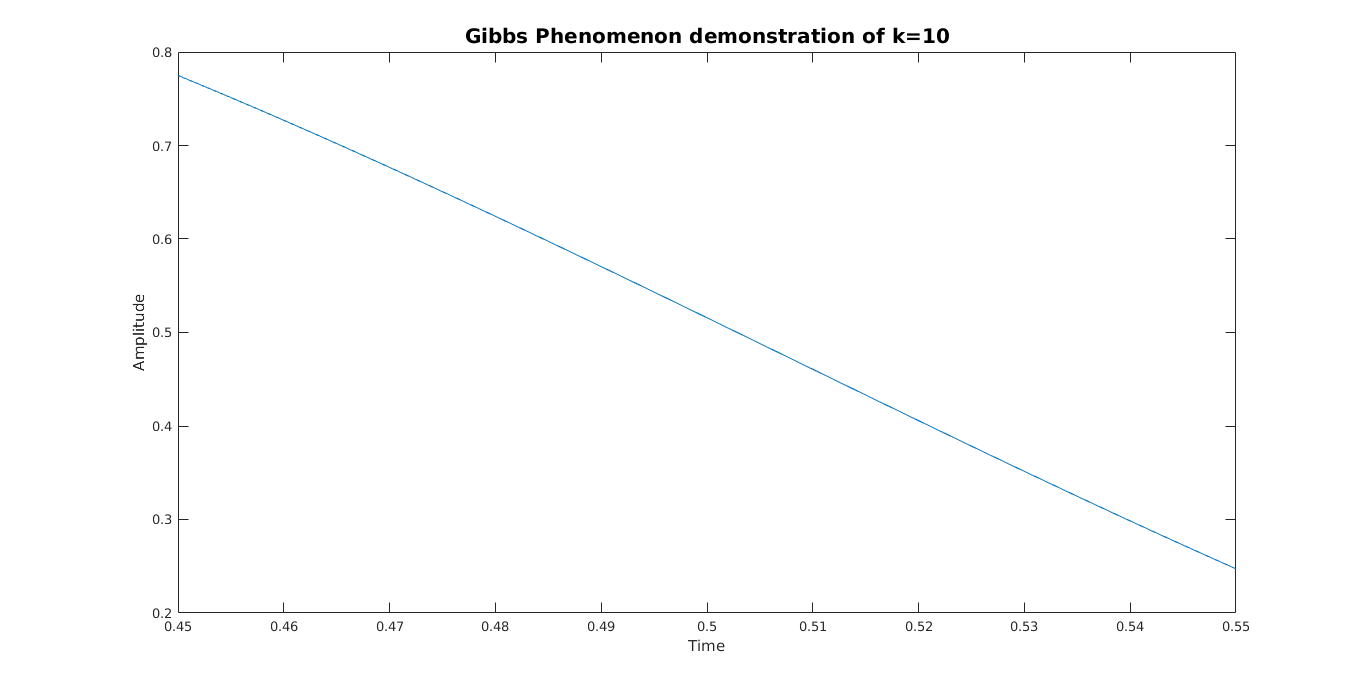
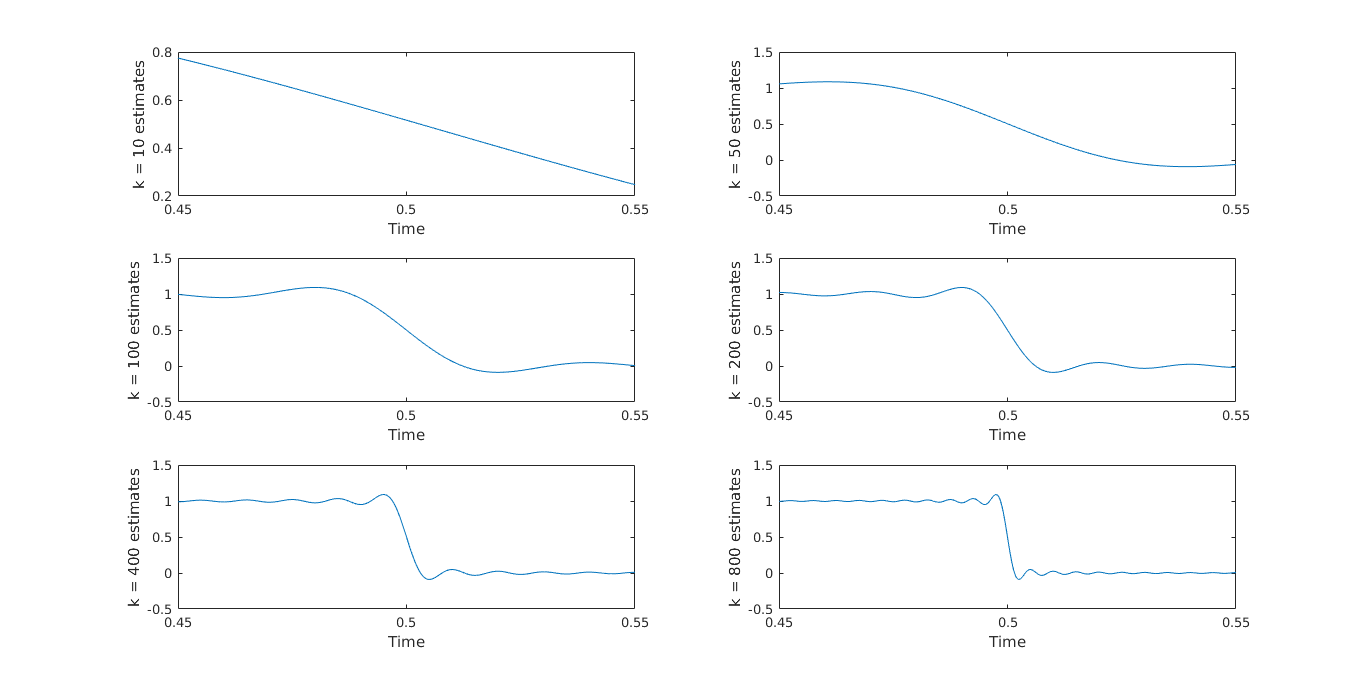
finalize plots for lab6

diff --git a/labs/lab06/scripts/synthesize.m b/labs/lab06/scripts/synthesize.m
@@ -24,19 +24,22 @@ function synthesize(waveform, wave_name, K, estimates, t, T, mse, mse_k)
 
     figure;
     plot(K, mse_k, '-r')
-    xlabel('K Estimates');
+    xlabel('Estimates');
     ylabel('Amplitude');
     title('Mean Squared Error against the K Estimators', 'FontSize', 15);
 
-    figure;
-    title(['Gibbs Phenomenon demonstration of k=', num2str(K(i))], 'FontSize', 15);
+        figure;
     for i = 1 : length(K)
+        hor_plot = 3;
+        if i <= hor_plot
+            hor_plot = 1;
+        end
+        hor_plot = 2;
+        subplot(['3', num2str(hor_plot), num2str(i)]);
         plot(t, estimates(1:end, i));
         xlim([0.45 0.55]);
-        subplot(['61', num2str(i)]);
+        xlabel('Time');
+        ylabel(['k = ', num2str(K(i)), ' estimates']);
     end
-    xlim([0.45 0.55]);
-    xlabel('Time');
-    ylabel('Amplitude');
 
 end

diff --git a/labs/lab06/scripts/settings.m b/labs/lab06/scripts/settings.m
@@ -4,7 +4,6 @@ T = 4;
 
 u = @(t) (t > 0);
 p = @(t) (u(t) - u(t-1));
-r = @(t) ((t).*(p(t)));
 
 xhat = zeros(1, length(t));
 K=[10 50 100 200 400 800];
